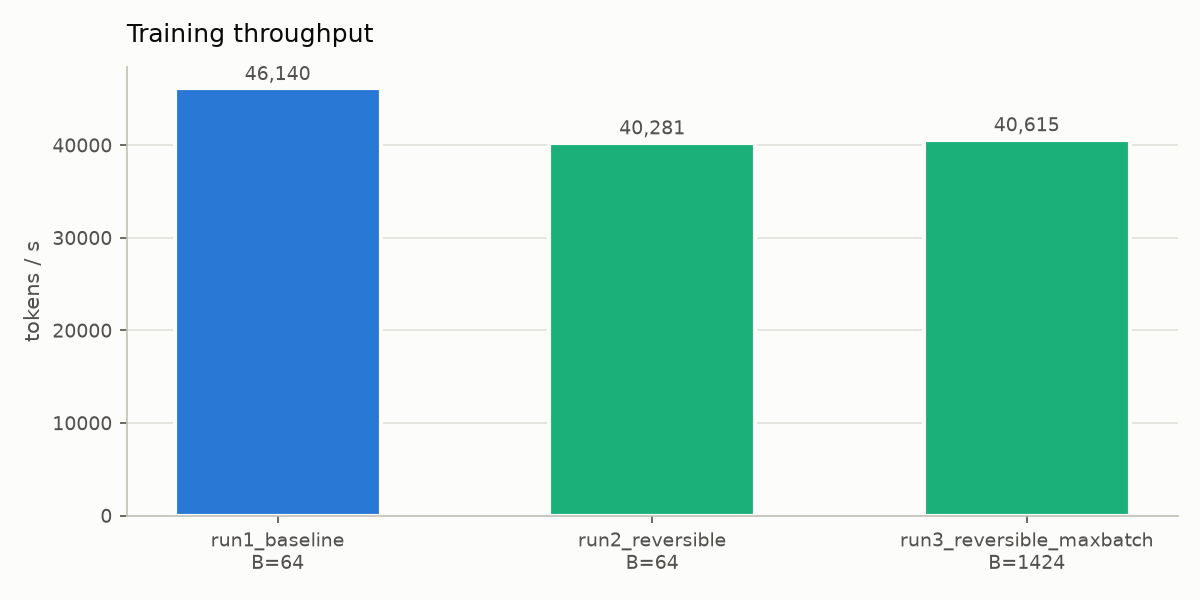
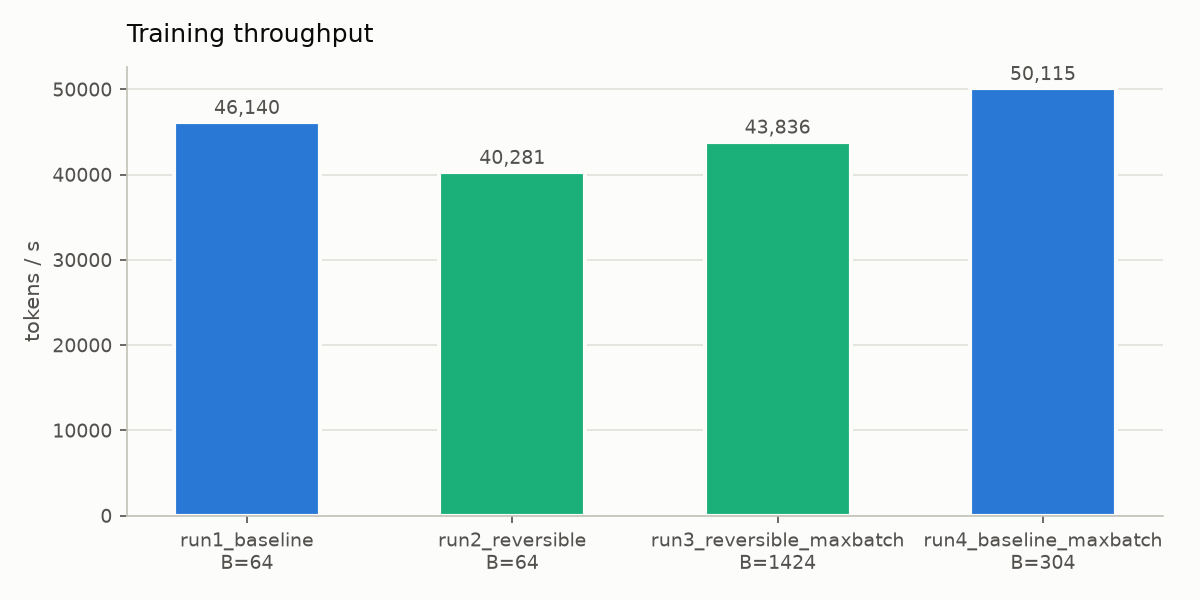
Assignment 13: sustained maximum-batch comparison (runs 3 and 4)
- run3 (midpoint_a) and run4 (baseline) trained for 50M tokens at their
  sustained maximum batch on a T4: both ran out of memory at the
  one-step maximum (1503, 328) and completed at 1424 and 304;
  attempts in results/logs/sustained_batch.csv
- README section 7: max-batch comparison, sustained vs one-step maximum,
  same-session speed comparisons (sessions differed by ~8%), final
  summary; status marked complete

diff --git a/experiments/assignment13/README.md b/experiments/assignment13/README.md
@@ -16,11 +16,11 @@ for Efficient Training and Fine-Tuning*, [arXiv:2512.02056](https://arxiv.org/ab
 pipeline end to end on a Colab GPU. [`run_all.py`](run_all.py) runs the same pipeline from a
 terminal; its `--preset shakespeare_char` mode produced the results in this README.
 
-> **Status.** **Section 7 has the full-scale results**: 20.1M parameters and 50M FineWeb-Edu
-> tokens per run on a Colab T4, with runs 1–3, the variant screen, and the max-batch and depth
-> probes. Run 4 (the baseline at its maximum batch) and run 3 at the full one-step maximum are
-> still to run (section 7.6). Section 6 is an earlier controlled study on a laptop CPU (Tiny
-> Shakespeare, 7.2M parameters; results in `results_cpu/`).
+> **Status: complete.** **Section 7 has the full-scale results**: 20.1M parameters and 50M
+> FineWeb-Edu tokens per run on a Colab T4. It covers the variant screen, runs 1–2 at a fixed
+> batch, and runs 3–4, the reversible model and the baseline each at its *sustained* maximum
+> batch, plus the max-batch, depth and throughput probes. Section 6 is an earlier controlled
+> study on a laptop CPU (Tiny Shakespeare, 7.2M parameters; results in `results_cpu/`).
 
 ---
 
@@ -436,9 +436,10 @@ trained on 50M FineWeb-Edu tokens per run, on a Colab Tesla T4 (14.6 GB usable) 
 raw numbers are in [`results/summary.md`](results/summary.md), `results/runs/` and
 `results/logs/`.
 
-> **Still to run:** run 4 (the baseline at its own maximum batch) and run 3 at the full
-> one-step maximum (1,503). This session ran an older notebook, which used 95% of the maximum
-> for run 3 and treated run 4 as optional. Both are covered in section 7.6.
+The results come from two Colab sessions. **Session 1** ran the data preparation, checks,
+variant screen, probes, and runs 1 and 2. **Session 2** ran the two maximum-batch runs, 3 and
+4, with the sustained-maximum procedure (section 7.4). Losses and memory don't depend on the
+session, but speed does (section 7.5).
 
 ### 7.1 Which reversible variant worked
 
@@ -462,11 +463,12 @@ Section 7.2 shows the advantage did not last to 50M tokens.
 
 ### 7.2 Final loss (50M tokens each)
 
-| run | variant | batch | steps | final train loss | final val loss | Δ val vs run 1 |
+| run | variant | batch | steps | peak lr | final train loss | final val loss |
 |---|---|---|---|---|---|---|
-| run 1 | baseline | 64 | 1,526 | 4.9826 | **5.0895** | n/a |
-| run 2 | midpoint_a | 64 | 1,526 | 4.9733 | **5.0881** | −0.0014 |
-| run 3 | midpoint_a | 1,424 | 69 | 6.8869 | **6.9213** | +1.83 |
+| run 1 | baseline | 64 | 1,526 | 1.0e-3 | 4.9826 | **5.0895** |
+| run 2 | midpoint_a | 64 | 1,526 | 1.0e-3 | 4.9733 | **5.0881** |
+| run 3 | midpoint_a | **1,424** (sustained max) | 69 | 3.0e-3 (capped) | 6.8858 | **6.9202** |
+| run 4 | baseline | **304** (sustained max) | 322 | 2.2e-3 | 6.2964 | **6.3581** |
 
 ![validation loss](results/plots/val_loss.png)
 ![training loss](results/plots/train_loss.png)
@@ -474,12 +476,16 @@ Section 7.2 shows the advantage did not last to 50M tokens.
 - **At the same batch, the reversible model matches the baseline.** It was ahead early
   (val 6.475 vs 6.533 after 5M tokens) and level by the end: 5.0881 vs 5.0895, a difference of
   0.0014. This is the paper's quality claim, reproduced at 20M parameters and 50M tokens.
-- **The maximum-batch run is far worse, because it made far fewer updates.** At batch 1,424 the
-  same 50M tokens give only 69 optimizer steps instead of 1,526. The √-scaled learning rate hit
-  its 3e-3 cap (the rule asked for 4.7e-3), so it could not make up the difference. Run 2,
-  the same variant at batch 64, shows reversibility itself is not the cause.
+- **At each model's maximum batch, the baseline ends up better (6.358 vs 6.920), but because it
+  makes more updates, not because reversibility hurts.** The reversible model's 4.7× larger batch
+  turns the fixed 50M tokens into 69 optimizer steps, against the baseline's 322. Its
+  √-scaled learning rate also hit the 3e-3 cap (the rule asked for 4.7e-3), while the
+  baseline's 2.2e-3 was uncapped. Both maximum-batch runs are far behind the batch-64 runs
+  (5.09), which made 1,526 updates. With the token budget fixed, a bigger batch trades updates
+  for parallelism, and at this scale updates matter more. Runs 1 and 2 show that at equal
+  update counts the two trunks are equal.
 - No run diverged, and no step had a non-finite loss. Samples are in `results/summary.md`:
-  runs 1 and 2 produce fluent but meaningless English, while run 3 is still word salad.
+  runs 1 and 2 produce fluent but meaningless English, while runs 3 and 4 are still word salad.
 
 ### 7.3 Peak memory
 
@@ -491,6 +497,7 @@ state: fp32 weights, gradients and two AdamW moments for 20.1M parameters.
 | run 1 baseline | 64 | **3.46 GB** | 24% |
 | run 2 reversible | 64 | **0.94 GB** (3.7× less) | 6% |
 | run 3 reversible | 1,424 | **13.59 GB** | 93% |
+| run 4 baseline | 304 | **13.35 GB** | 92% |
 
 ![peak memory](results/plots/peak_memory.png)
 
@@ -514,7 +521,8 @@ loss head used in every run and with the standard full-logits head:
 ![memory vs depth](results/plots/memory_vs_depth.png)
 
 - **At the same batch, reversible training needs 3.7× less GPU memory** (3.46 → 0.94 GB). That
-  lets it fit **4.6× the batch** (328 → 1,503) on the same GPU.
+  lets it fit **4.6× the batch** in one step (328 → 1,503) and **4.7× the batch for a whole run**
+  (304 → 1,424, section 7.4) on the same GPU.
 - **Memory vs depth reproduces the paper's Fig. 3.** The baseline adds about 150 MB per layer at
   batch 32. The reversible model adds about 10 MB per layer, which is roughly what one layer's
   own weights, gradients and Adam state cost (12.6 MB); its stored activations don't grow. At
@@ -524,18 +532,47 @@ loss head used in every run and with the standard full-logits head:
   buys almost nothing there. The chunked head alone raises the baseline's maximum 7.8×
   (42 → 328), and only together with reversibility does the batch reach 1,503.
 
-### 7.4 Speed (tokens/s)
+### 7.4 Sustained maximum batch
 
-On the GPU, speed within each run was steady to about ±1%, so the runs' own numbers are
-reliable (unlike the laptop runs in section 6.4).
+Runs 3 and 4 each started a full 50M-token run at the one-step maximum from the probe, and
+restarted 5% smaller after every out-of-memory exit (`results/logs/sustained_batch.csv`):
 
-| run | batch | tokens/s | wall clock |
+| run | one-step max | batch tried | outcome | sustained max |
+|---|---|---|---|---|
+| run 3 reversible | 1,503 | 1,503 | out of memory | |
+| | | 1,424 | completed (peak 13.59 GB) | **1,424** (95% of one-step) |
+| run 4 baseline | 328 | 328 | out of memory | |
+| | | 304 | completed (peak 13.35 GB) | **304** (93% of one-step) |
+
+- **Neither model could sustain its one-step maximum.** The probe's single step overestimates
+  what a whole run can hold by 5–7%. The batch that completes a full run is the honest
+  "maximum", and on that measure **reversibility fits 4.7× the batch** (304 → 1,424).
+- The out-of-memory attempts were restarted from scratch, and their logs were overwritten by the
+  retry. So *when* each failed attempt ran out of memory was not recorded.
+
+### 7.5 Speed (tokens/s)
+
+Within a run, speed was steady to about ±1%. **Between Colab sessions it was not:** run 3 was
+trained in both sessions with an identical configuration (batch 1,424). It reached the same
+loss (6.9213 in session 1, 6.9202 in session 2), but it ran at 40,615 tokens/s in session 1 and
+43,836 in session 2, which is 7.9% faster. So tokens/s is only compared **within** a session:
+
+| comparison (same session) | baseline | reversible | reversible cost |
 |---|---|---|---|
-| run 1 baseline | 64 | **46,140** | 19.2 min |
-| run 2 reversible | 64 | **40,281** (−12.7%) | 21.8 min |
-| run 3 reversible | 1,424 | **40,615** | 21.8 min |
+| same batch, 64 (session 1: run 1 vs run 2) | 46,140 | 40,281 | **−12.7%** |
+| each at its sustained max (session 2: run 4 at 304 vs run 3 at 1,424) | 50,115 | 43,836 | **−12.5%** |
 
-**Throughput vs batch** (`memory_probe.py`, 5 timed steps per point):
+| run | session | batch | tokens/s | wall clock |
+|---|---|---|---|---|
+| run 1 baseline | 1 | 64 | 46,140 | 19.2 min |
+| run 2 reversible | 1 | 64 | 40,281 | 21.8 min |
+| run 3 reversible | 2 | 1,424 | 43,836 | 20.2 min |
+| run 4 baseline | 2 | 304 | 50,115 | 17.7 min |
+
+(`results/plots/throughput.png` shows these four runs side by side, but the bars come from two
+sessions. Use the same-session comparisons above.)
+
+**Throughput vs batch** (`memory_probe.py`, session 1, 5 timed steps per point):
 
 | batch | 8 | 16 | 64 | 256 | 328 | 1,024 |
 |---|---|---|---|---|---|---|
@@ -544,19 +581,19 @@ reliable (unlike the laptop runs in section 6.4).
 
 ![throughput vs batch](results/plots/throughput_vs_batch.png)
 
-- **Reversible training costs 12.7% in tokens/s at the same batch** (14.5% more time per
-  token). That is less than the 20% measured on the CPU (section 6.4), and below the paper's
-  30–50%.
-- **A bigger batch buys almost no throughput on the T4.** Both trunks are flat from batch 16
-  onward. Run 3 at batch 1,424 was only 0.8% faster than run 2 at batch 64. Even at their best,
-  the reversible model peaks at 40.6k tokens/s and the baseline at 46.9k. The paper's throughput
-  gains (its Table 4) come from baselines that could only fit very small batches. A 20M model on
-  a T4 is already compute-bound at batch 16, so there is no headroom for a bigger batch to use.
-- **At its absolute memory limit, the baseline slows down sharply**: 36.5k tokens/s at batch
-  328, using 98% of memory, versus 46.9k at 256. The reversible model showed no such slowdown,
-  even in run 3 at 93% of memory.
+- **Reversible training costs about 12.5% in tokens/s, at the same batch and at the maximum
+  batch alike.** That's 14.5% more time per token: less than the 20% measured on the CPU
+  (section 6.4), and below the paper's 30–50%.
+- **A bigger batch buys almost no throughput on the T4.** In the probe both trunks are flat from
+  batch 16 onward. The reversible model's 4.7× larger batch therefore cannot buy back its
+  recomputation cost: at their sustained maxima, the baseline is still 12.5% faster. The paper's
+  throughput gains (its Table 4) come from baselines limited to very small batches. A 20M model
+  on a T4 is already compute-bound at batch 16, so this setup can't show them.
+- **At its absolute one-step limit, the baseline slows down sharply**: 36.5k tokens/s at batch
+  328, using 98% of memory, versus 46.9k at 256. At the sustained 304 (92% of memory) it showed
+  no slowdown, and neither did the reversible model at 1,424 (93%).
 
-### 7.5 Numerical findings under fp16
+### 7.6 Numerical findings under fp16
 
 | check (GPU, fp16 autocast) | midpoint | midpoint_a | leapfrog | hamiltonian |
 |---|---|---|---|---|
@@ -580,31 +617,24 @@ reliable (unlike the laptop runs in section 6.4).
   have not verified this against an fp32 reference. Every training run used the fused head
   with `GradScaler`.
 
-### 7.6 Still to run
-
-To complete the maximum-batch comparison, rerun the notebook from this branch. Before you
-run it, copy this `results/` folder into `MyDrive/chintana_assignment13/results/` so that
-finished stages are skipped:
-
-- **Run 4:** the baseline trained at its sustained maximum batch, starting from 328. About 30
-  minutes including re-tokenizing the data.
-- **Run 3 at batch 1,503** (`REDO_RUN3 = True`): starts at the full one-step maximum, steps down
-  only on out-of-memory, and logs every attempt in `results/logs/sustained_batch.csv`. About
-  25 minutes.
-
 ### 7.7 Summary
 
-| | run 1 baseline (B=64) | run 2 reversible (B=64) | run 3 reversible (B=1,424) |
-|---|---|---|---|
-| final val loss | 5.0895 | 5.0881 | 6.9213 |
-| tokens/s | 46,140 | 40,281 | 40,615 |
-| peak GPU memory | 3.46 GB | **0.94 GB** | 13.59 GB |
-| optimizer steps | 1,526 | 1,526 | 69 |
+| | run 1 baseline | run 2 reversible | run 3 reversible | run 4 baseline |
+|---|---|---|---|---|
+| batch | 64 | 64 | 1,424 (sustained max) | 304 (sustained max) |
+| optimizer steps | 1,526 | 1,526 | 69 | 322 |
+| final val loss | 5.0895 | **5.0881** | 6.9202 | 6.3581 |
+| tokens/s (same-session pairs) | 46,140 | 40,281 (−12.7%) | 43,836 (−12.5%) | 50,115 |
+| peak GPU memory | 3.46 GB | **0.94 GB** | 13.59 GB | 13.35 GB |
 
-At full scale, reversible `midpoint_a` matched the baseline's loss with **3.7× less GPU
-memory** and **12.7% fewer tokens/s**. Its memory stayed flat with depth while the baseline's
-grew linearly, and it fit **4.6× the batch**. On a T4 that bigger batch buys no throughput,
-and with a fixed 50M-token budget it costs a great deal of loss.
+At full scale (20.1M parameters, 50M tokens, T4), reversible `midpoint_a` **matched the
+baseline's loss at the same batch with 3.7× less GPU memory**. Its memory stayed flat with
+depth while the baseline's grew linearly. On the same GPU it **sustains 4.7× the batch** (1,424
+vs 304). The cost is a steady **12.5% fewer tokens/s**. Because a T4 is compute-bound for a
+model this size, the larger batch buys no throughput back. And with the token budget fixed,
+it costs updates: at their maximum batches the baseline's 322 steps beat the reversible
+model's 69 (6.36 vs 6.92). Reversibility's benefit here is **capacity** (larger batches, deeper
+models or longer contexts in the same memory), not speed.
 
 ## 8. Caveats
 

diff --git a/experiments/assignment13/results/summary.md b/experiments/assignment13/results/summary.md
@@ -8,13 +8,15 @@ Generated by `report.py` from `results/runs/` and `results/logs/`.
 |---|---|---|---|---|---|---|---|---|---|---|---|
 | run1_baseline | baseline | 64 | 1526 | 50.0M | 1.00e-03 | 4.9826 | 5.0895 | 46,140 | 3.46 | 19.2 | no |
 | run2_reversible | midpoint_a | 64 | 1526 | 50.0M | 1.00e-03 | 4.9733 | 5.0881 | 40,281 | 0.94 | 21.8 | no |
-| run3_reversible_maxbatch | midpoint_a | 1424 | 69 | 50.3M | 3.00e-03 | 6.8869 | 6.9213 | 40,615 | 13.59 | 21.8 | no |
+| run3_reversible_maxbatch | midpoint_a | 1424 | 69 | 50.3M | 3.00e-03 | 6.8858 | 6.9202 | 43,836 | 13.59 | 20.2 | no |
+| run4_baseline_maxbatch | baseline | 304 | 322 | 50.1M | 2.18e-03 | 6.2964 | 6.3581 | 50,115 | 13.35 | 17.7 | no |
 
 ### Samples
 
 - **run1_baseline** (prompt 'The meaning of'): 'The meaning of “the most important” of the “the meaning of the “anomic” and “uncocian”” of the “fable,” and “the “all-al””, “the “a”'
 - **run2_reversible** (prompt 'The meaning of'): 'The meaning of “anal” is the meaning of being the meaning of the word of the word for the Bible”.\nAs that “A“the word has not been made, “the word” is not so great or “n” or “we” or �'
-- **run3_reversible_maxbatch** (prompt 'The meaning of'): 'The meaning of the state.\ns at be the end to you with a body.- " and as a the world and are a other to that the large.“- for.\n he are the be the a many that the a not from a the health the part as the work the use from it are the right'
+- **run3_reversible_maxbatch** (prompt 'The meaning of'): 'The meaning of the state.\ns at be the end to you with a body.- " and the two and from the few.\n the day for the be the common of for.\n he are the be the a many that the a not from a the health the part as the work the use from it are the right'
+- **run4_baseline_maxbatch** (prompt 'The meaning of'): 'The meaning of “H., ‘”,”\n”\n- "an\n- In the most of a very a day of ““- In a\n-\n- “the-“I are\n-\n- the world.\n” And one of the first of'
 
 ## Variant screening
 
@@ -34,6 +36,17 @@ Generated by `report.py` from `results/runs/` and `results/logs/`.
 | Tesla T4 | baseline | standard | 42 | 14.07 | False |
 | Tesla T4 | midpoint_a | fused | 1503 | 14.32 | False |
 | Tesla T4 | midpoint_a | standard | 48 | 14.14 | False |
+
+## Sustained maximum batch (full training runs)
+
+Each run starts at the one-step maximum from `max_batch.csv` and steps down 5% after every out-of-memory exit; the completed row is the batch that sustained a whole run.
+
+| run | variant | one-step max | batch tried | outcome |
+|---|---|---|---|---|
+| run3_reversible_maxbatch | midpoint_a | 1503 | 1503 | out_of_memory |
+| run3_reversible_maxbatch | midpoint_a | 1503 | 1424 | completed |
+| run4_baseline_maxbatch | baseline | 328 | 328 | out_of_memory |
+| run4_baseline_maxbatch | baseline | 328 | 304 | completed |
 
 ## Throughput vs batch size
 
